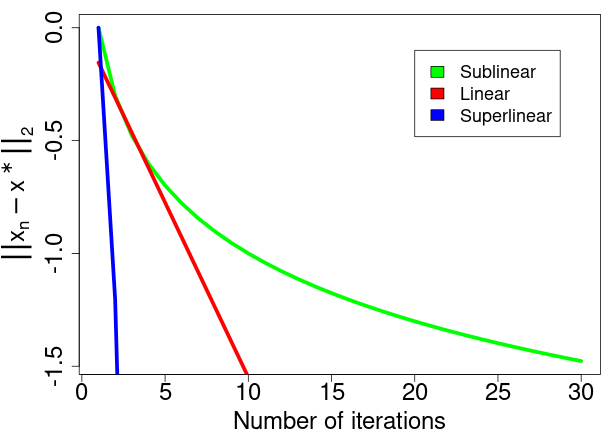
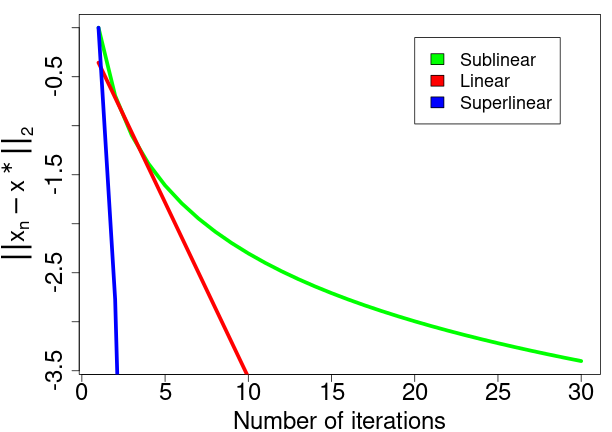
Add files via upload

diff --git a/_teaching/file_stat302/Lectures/Lecture8_Numerical_Analysis.html b/_teaching/file_stat302/Lectures/Lecture8_Numerical_Analysis.html
@@ -1011,11 +1011,11 @@ The convergence `\(x_n\to x^*\)` is said to be **superlinear** if
 library(latex2exp)
 k = 1:30
 par(mar = c(4, 5.5, 1, 0.8)) 
-plot(k, log10(1/k), type="l", lwd=5, col="green", 
+plot(k, log(1/k), type="l", lwd=5, col="green", 
      xlab = "Number of iterations", ylab = TeX("$||x_n - x^*||_2$"), 
      cex.lab=2, cex.axis=2, cex=0.7)
-lines(k, log10((7/10)^k), col="red", lwd=5)
-lines(k, log10((1/k)^(2^k)), col="blue", lwd=5)
+lines(k, log((7/10)^k), col="red", lwd=5)
+lines(k, log((1/k)^(2^k)), col="blue", lwd=5)
 legend(20, -0.1, legend=c("Sublinear", "Linear", "Superlinear"), fill=c("green", "red", "blue"), cex=1.5)
 ```
 
@@ -1483,12 +1483,12 @@ powerIter = function(mat, b_0 = NULL, tol = 1e-7) {
     b_0 = numeric(length = nrow(mat))
     b_0[1:length(b_0)] = 1
   }
-  curr_eig = (t(b_0) %*% mat %*% b_0)/(t(b_0) %*% b_0)
+  curr_eig = (t(Conj(b_0)) %*% mat %*% b_0)/(t(Conj(b_0)) %*% b_0)
   eig_seq = c(curr_eig)
   b_new = (mat %*% b_0) / sqrt(sum(mat %*% b_0))
   while(sqrt(sum((b_new - b_0)^2)) &gt; tol) {
     b_0 = b_new
-    curr_eig = (t(b_0) %*% mat %*% b_0)/(t(b_0) %*% b_0)
+    curr_eig = (t(Conj(b_0)) %*% mat %*% b_0)/(t(Conj(b_0)) %*% b_0)
     eig_seq = c(eig_seq, curr_eig)
     b_new = (mat %*% b_0) / sqrt(sum(mat %*% b_0))
   }
